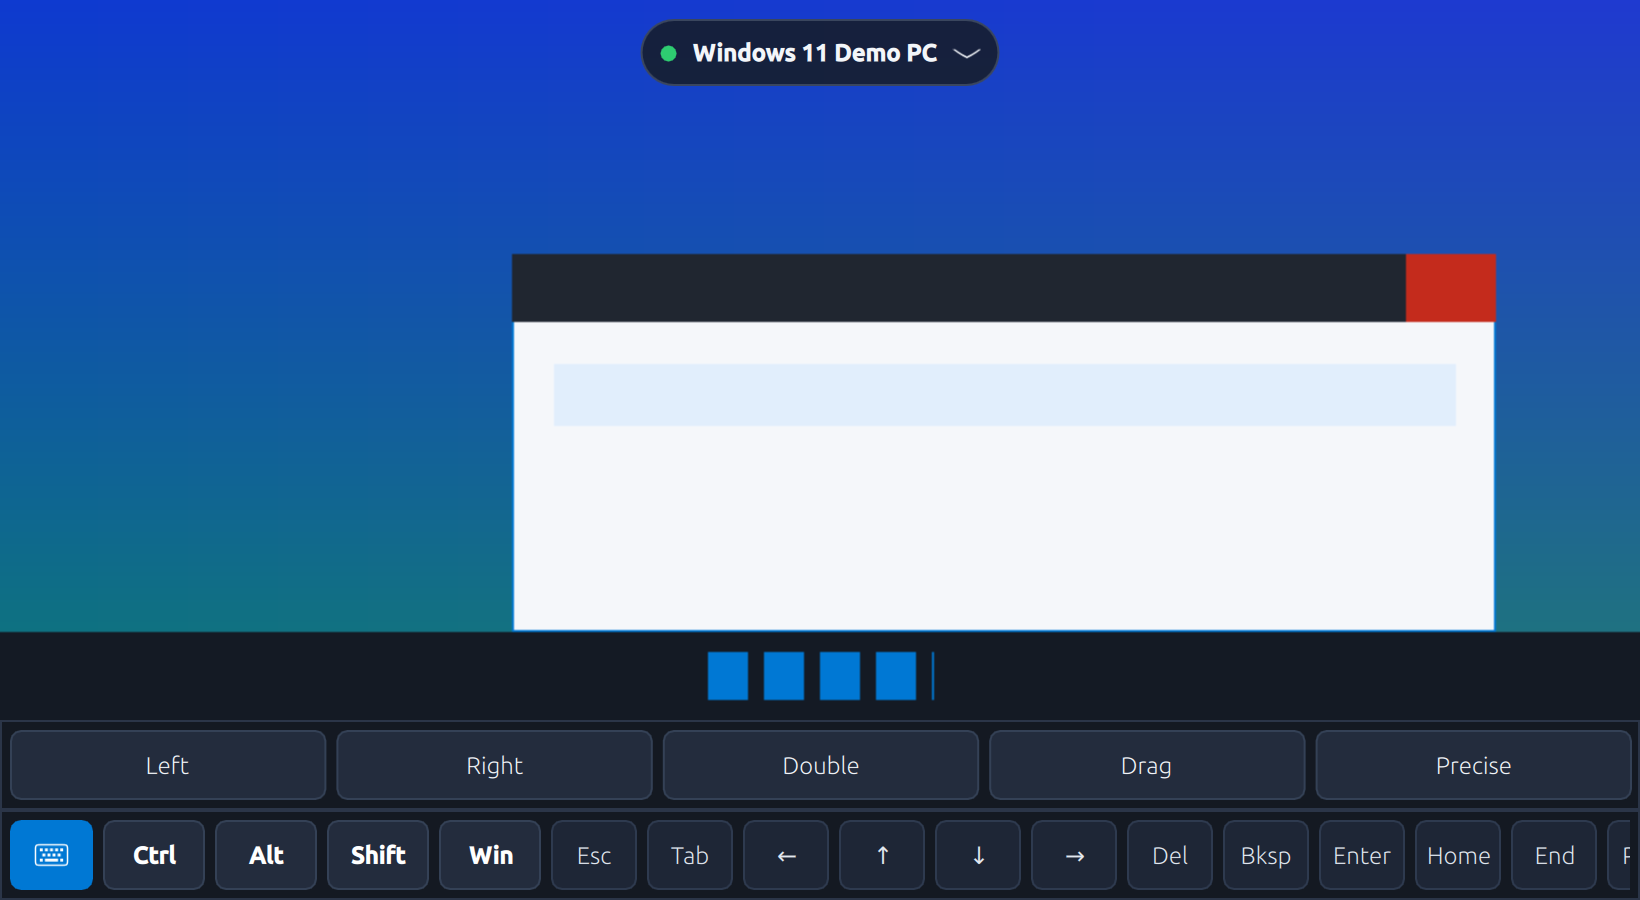
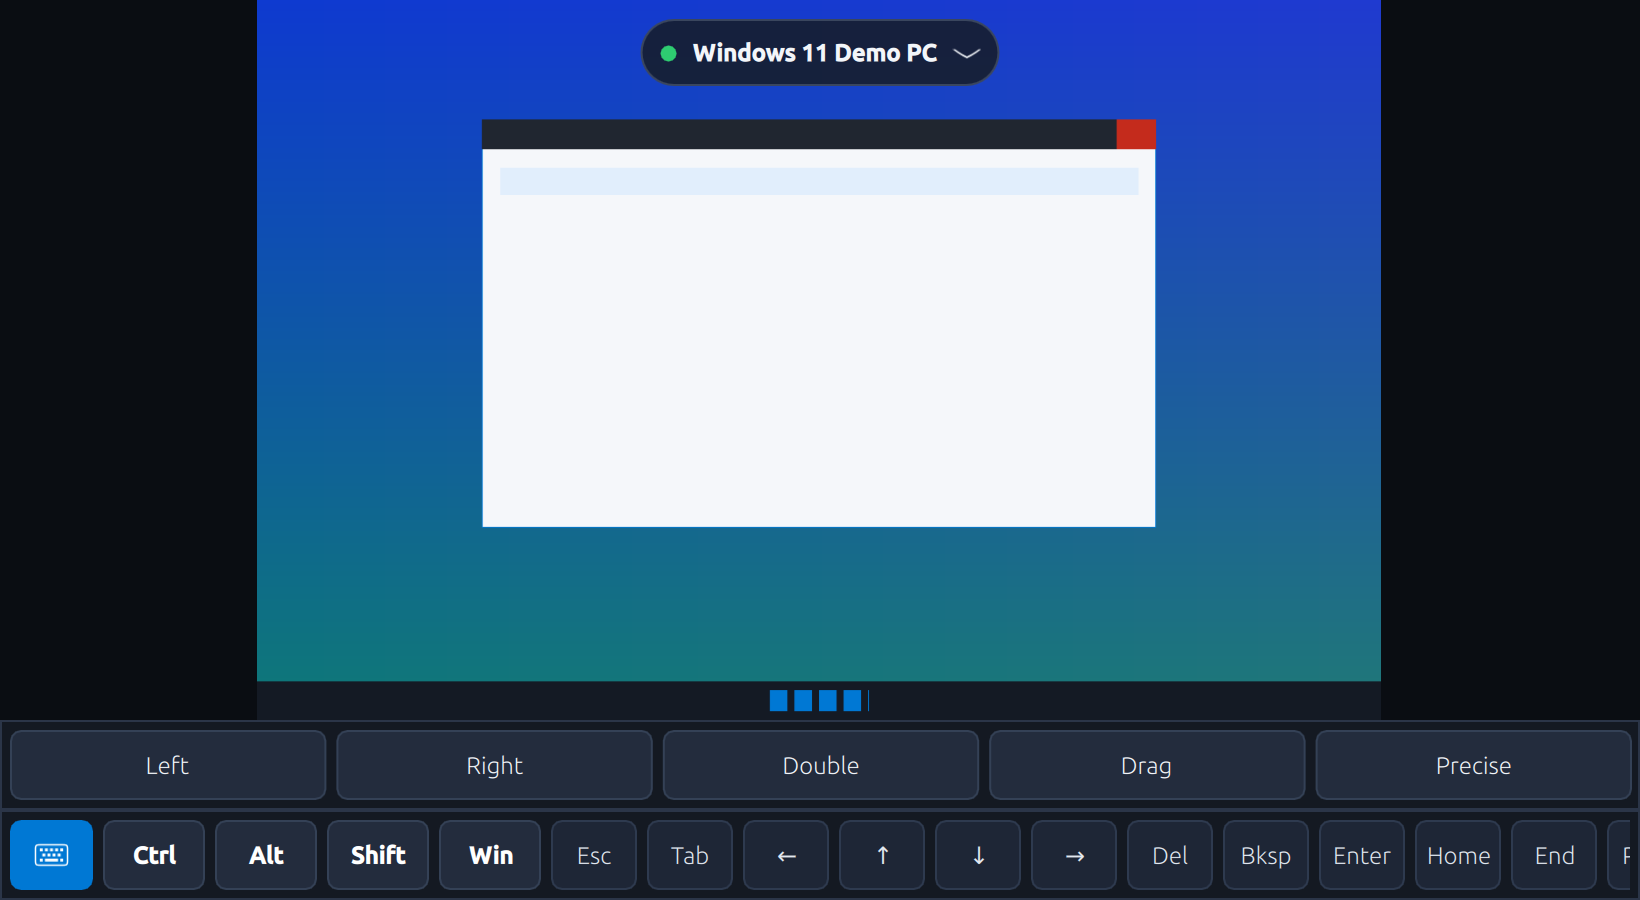
chore(release): prepare v0.4.0

diff --git a/ubuntu-touch/qml/pages/SettingsPage.qml b/ubuntu-touch/qml/pages/SettingsPage.qml
@@ -297,7 +297,7 @@ Flickable {
                     color: root.darkMode ? "#F3F6FA" : "#1B2028"
                 }
                 Label {
-                    text: i18n.tr("Version 0.3.0 • License: GPL-3.0-or-later")
+                    text: i18n.tr("Version 0.4.0 • License: GPL-3.0-or-later")
                     fontSize: "small"
                     color: "#29B6F6"
                 }

diff --git a/docs/releases/0.4.0.md b/docs/releases/0.4.0.md
@@ -1,0 +1,64 @@
+# Open RDP Client v0.4.0
+
+Open RDP Client now runs on Linux desktop as well as Ubuntu Touch. Both
+frontends share the RDP engine and gain a redesigned PC library, temporary
+Quick Connect, and clearer connection feedback.
+
+## Linux desktop
+
+- Add a Qt 6 desktop app with keyboard and mouse input, clipboard sync, audio,
+  dynamic or fixed resolution, fullscreen, zoom, and optional touch controls.
+- Provide separate **amd64 DEB packages for Ubuntu 24.04 and Debian 13**.
+  Download the package for your distribution from this GitHub release.
+- Add PCs, Accounts, and Settings navigation, responsive grid/list layouts,
+  light/dark themes, reusable accounts, and certificate management.
+- Reserve **Ctrl+Alt+Enter** for fullscreen and forward Escape to the remote
+  session. Release held input when focus is lost or a dialog opens.
+- Desktop upgrades use the releases link in Settings. Ubuntu Touch retains
+  OpenStore updates, its package identity, and existing saved data. Desktop
+  uses its own storage; profiles are not migrated automatically.
+
+## PC library and daily workflows
+
+- Browse All, Favorites, or Recent PCs; search names, addresses, and groups.
+  Filter groups, sort by name/address/last connection, and remember grid/list
+  and sort preferences. Recent records successful connections only.
+- Create or assign groups in the PC editor, rename a group across its PCs, or
+  remove a group while keeping its PCs in Saved PCs.
+- Use **Quick Connect** for a temporary connection, choosing a saved account
+  or entering credentials when prompted. Save the PC explicitly from the
+  session when needed. Temporary PCs stay out of saved profiles, Recent, and
+  thumbnail storage until saved; entering a password does not save an account.
+- Organize PC settings into General, Display, and Devices. Use **Save** or
+  **Save & Connect**, with validation and save errors kept in the editor.
+- Refresh Ubuntu Touch with responsive PC cards, compact rows, library
+  options, group management, and touch actions while retaining Lomiri controls
+  and bottom navigation.
+
+## Connection reliability
+
+- Show connection stages, cancellation, persistent failure details, Retry,
+  and Back to PCs. Retry resolves saved credentials again or prompts.
+- Confirm before replacing an active session and ignore late events from
+  cancelled or replaced connection attempts.
+- Fix desktop thumbnail URLs and delivery of action errors to the UI. Keep
+  credential and certificate prompts associated with the current connection.
+
+## Compatibility and validation
+
+- One window and one active session. Ubuntu Touch packages remain available
+  for amd64 and arm64, targeting `ubuntu-touch-24.04-1.x`.
+- Rust tests cover both platform feature selections; native Qt 5 and Qt 6
+  tests cover library workflows, prompts, input release, and resolution modes.
+  Package checks include Clickable review and installed DEB/demo startup on
+  Ubuntu 24.04 and Debian 13. CI publishes the tested DEBs with checksums and
+  their source commit.
+- Native screenshots use isolated data and the offline demo. Offline checks
+  do not establish Windows server interoperability. A native Qt 5 frontend
+  also authenticated to local xrdp, received desktop frames, and completed
+  portrait/landscape/keyboard-area dynamic resizes without reconnecting.
+  Physical Ubuntu Touch
+  hardware and real Windows server, clipboard, and audio interoperability
+  have not been revalidated for this release.
+- Cloud workspaces, gateways, simultaneous sessions, multiple monitors, and
+  folder sharing remain outside this release.

diff --git a/open-rdp-client/assets/screenshots/README.md b/open-rdp-client/assets/screenshots/README.md
@@ -1,17 +1,16 @@
-Native screenshots for Open RDP Client. The dashboard captures show the 0.3.0
-development UI; session and settings references are retained from 0.2.0.
+Native screenshots for Open RDP Client 0.4.0 on Ubuntu Touch.
 
 Captured from the native Qt/QML application using isolated
 app data and the built-in interactive demo. The remote desktop shown is the
 app's offline simulation. No saved user PCs or credentials are included.
 
-- `01-saved-pcs-dark.png`: redesigned PC library in dark mode (390 × 844).
+- `01-saved-pcs-dark.png`: redesigned PC library in dark mode (900 × 1640).
 - `02-demo-session.png`: landscape demo session and pointer controls (1640 × 900).
 - `03-session-shortcuts.png`: expanded session controls and shortcuts (1640 × 900).
-- `04-settings.png`: update checks and preferences (900 × 1640).
-- `05-saved-pcs-light.png`: redesigned PC library in light mode (390 × 844).
+- `04-settings.png`: error reporting, update checks, and preferences (900 × 1640).
+- `05-saved-pcs-light.png`: redesigned PC library in light mode (900 × 1640).
 
 CI captures additional desktop and mobile sizes, grid/list layouts, and enlarged
-text under `build/ui/`. Dashboard samples use fictional `.example.test`/`192.0.2.x`
-addresses. Only the built-in demo connects; these images are not evidence of a
+text under `build/ui/`. CI dashboard samples use fictional `.example.test`/`192.0.2.x`
+addresses. Store captures show only the built-in demo; these images are not evidence of a
 real Windows/xrdp server connection.
